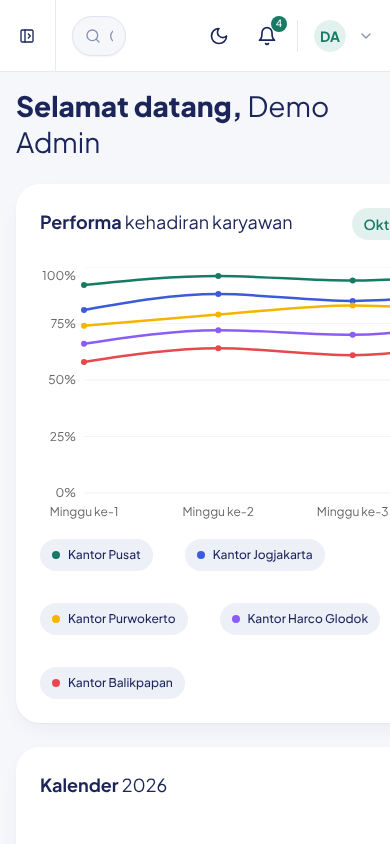
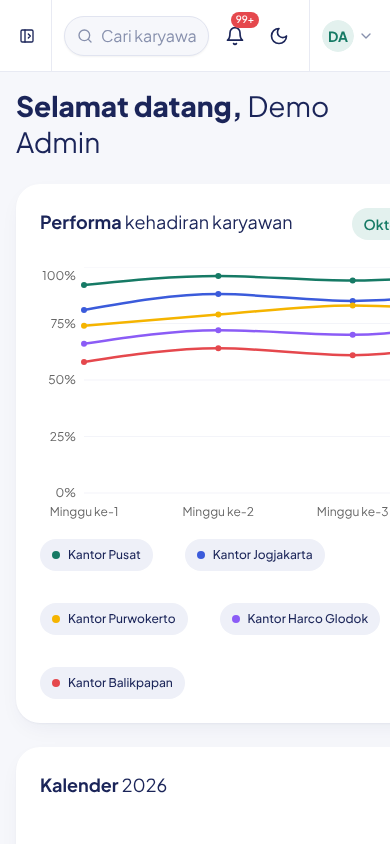
Dark mode: use shadcn neutral dark palette, keep teal brand accent
- Surfaces, text, borders follow shadcn/ui default dark (oklch neutrals)
- Brand teal kept for primary, active menu items, badges
- Solid destructive count badge in dark; docs and README screenshots updated

Claude-Session: https://claude.ai/code/session_01GRZLXeEPPAbeHc9RCNFXTc

Changed region(s): [[0.5231, 0.0, 0.7385, 0.0616], [0.2154, 0.0308, 0.4923, 0.0616], [0.8, 0.0, 0.9231, 0.0616]]

diff --git a/src/index.css b/src/index.css
@@ -71,38 +71,46 @@
 }
 
 .dark {
-  --background: #0e1226;
-  --foreground: #e8ebff;
-  --card: #151a35;
-  --card-foreground: #e8ebff;
-  --popover: #151a35;
-  --popover-foreground: #e8ebff;
-  --sidebar: #151a35;
-  --sidebar-foreground: #e8ebff;
-  --sidebar-accent: #17382f;
-  --sidebar-accent-foreground: #6fdcc0;
+  /* Permukaan & teks: palet netral bawaan shadcn/ui (dark). Aksen tetap teal merek. */
+  --background: oklch(0.145 0 0);
+  --foreground: oklch(0.985 0 0);
+  --card: oklch(0.205 0 0);
+  --card-foreground: oklch(0.985 0 0);
+  --popover: oklch(0.205 0 0);
+  --popover-foreground: oklch(0.985 0 0);
+  --secondary: oklch(0.269 0 0);
+  --secondary-foreground: oklch(0.985 0 0);
+  --accent: oklch(0.269 0 0);
+  --accent-foreground: oklch(0.985 0 0);
+  --muted: oklch(0.269 0 0);
+  --muted-foreground: oklch(0.708 0 0);
+  --border: oklch(1 0 0 / 10%);
+  --input: oklch(1 0 0 / 15%);
+  --destructive: oklch(0.704 0.191 22.216);
+
+  /* Sidebar */
+  --sidebar: oklch(0.205 0 0);
+  --sidebar-foreground: oklch(0.985 0 0);
+  --sidebar-border: oklch(1 0 0 / 10%);
+
+  /* Brand (teal) */
   --primary: #2bb594;
   --primary-foreground: #04231b;
   --primary-soft: #17382f;
-  --secondary: #1d2345;
-  --secondary-foreground: #e8ebff;
-  --accent: #1d2345;
-  --accent-foreground: #e8ebff;
-  --muted: #1a2040;
-  --muted-foreground: #8e97c0;
-  --border: #242b52;
-  --input: #2a3260;
   --ring: #2bb594;
+  --sidebar-primary: #2bb594;
+  --sidebar-primary-foreground: #04231b;
+  --sidebar-accent: #17382f;
+  --sidebar-accent-foreground: #6fdcc0;
+  --sidebar-ring: #2bb594;
+
+  /* Kartu pastel (versi redup) */
   --tint-mint: #14312a;
   --tint-lilac: #231f45;
   --tint-peach: #3a241d;
   --tint-sky: #14263d;
   --tint-rose: #3a1d22;
   --tint-cream: #38301a;
-  --sidebar-primary: #2bb594;
-  --sidebar-primary-foreground: #04231b;
-  --sidebar-border: #242b52;
-  --sidebar-ring: #2bb594;
 }
 
 @theme inline {

diff --git a/src/components/dashboard/shell.tsx b/src/components/dashboard/shell.tsx
@@ -162,7 +162,7 @@ export function AppSidebar({ path }: { path: string }) {
 function CountBadge({ count, variant = "default" }: { count: number; variant?: "default" | "danger" }) {
   if (count <= 0) return null
   return (
-    <Badge variant={variant === "danger" ? "destructive" : "default"} className="absolute -right-1.5 -top-1.5 h-4 min-w-4 justify-center rounded-full px-1 text-[10px]">
+    <Badge variant={variant === "danger" ? "destructive" : "default"} className="absolute -right-1.5 -top-1.5 h-4 min-w-4 justify-center rounded-full px-1 text-[10px] dark:bg-destructive">
       {count > 99 ? "99+" : count}
     </Badge>
   )

diff --git a/docs/DESIGN_SYSTEM.md b/docs/DESIGN_SYSTEM.md
@@ -21,6 +21,8 @@ Semua di `src/index.css` (`:root` dan `.dark`), otomatis jadi utility Tailwind.
 | Pastel | `tint-mint / lilac / peach / sky / rose / cream` |
 | Chart | `chart-1…5` (kuning, biru, teal, merah, ungu) |
 
+**Mode gelap** — permukaan, teks, dan garis memakai palet netral bawaan shadcn/ui (`oklch`, hampir hitam: `background` 0.145, `card` 0.205, `border` putih 10%). Aksen tetap teal merek (`primary #2BB594`, `primary-soft #17382F`) agar identitas sama dengan mode terang. Token ada di blok `.dark` di `src/index.css`.
+
 **Tipografi** – Plus Jakarta Sans. Display 28/800, Section title 18/700 (`.section-title`, kata pertama bold + `<span>` regular), Body 14 default, Caption 12.
 **Radius** – kartu `2xl` (16px+8), kontrol `xl` (12px), badge `full`. **Shadow** – `shadow-card`, `shadow-pop` (overlay/popover).
 **Spacing** – skala 4px; padding kartu `p-6`, jarak antar kartu `gap-4`/`gap-6`.

diff --git a/README.md b/README.md
@@ -103,6 +103,7 @@ Ringkas:
 - **Warna aksi:** teal `#167A65`; teks navy `#1B2559`; kanvas `#F6F7FB`.
 - **Status:** biru = tepat waktu, hijau = hadir/izin, oranye = terlambat, merah = tidak hadir/alpha.
 - **Bentuk:** kartu `rounded-2xl` tanpa border dengan `shadow-card`; kontrol `rounded-xl`.
+- **Mode gelap:** palet netral bawaan shadcn (hampir hitam) dengan aksen teal merek.
 - **Token** ada di `src/index.css` dan otomatis tersedia sebagai utility Tailwind (`bg-primary`, `text-danger`, `bg-tint-mint`, …).
 
 Dokumentasi lengkap: [`docs/DESIGN_SYSTEM.md`](docs/DESIGN_SYSTEM.md).
